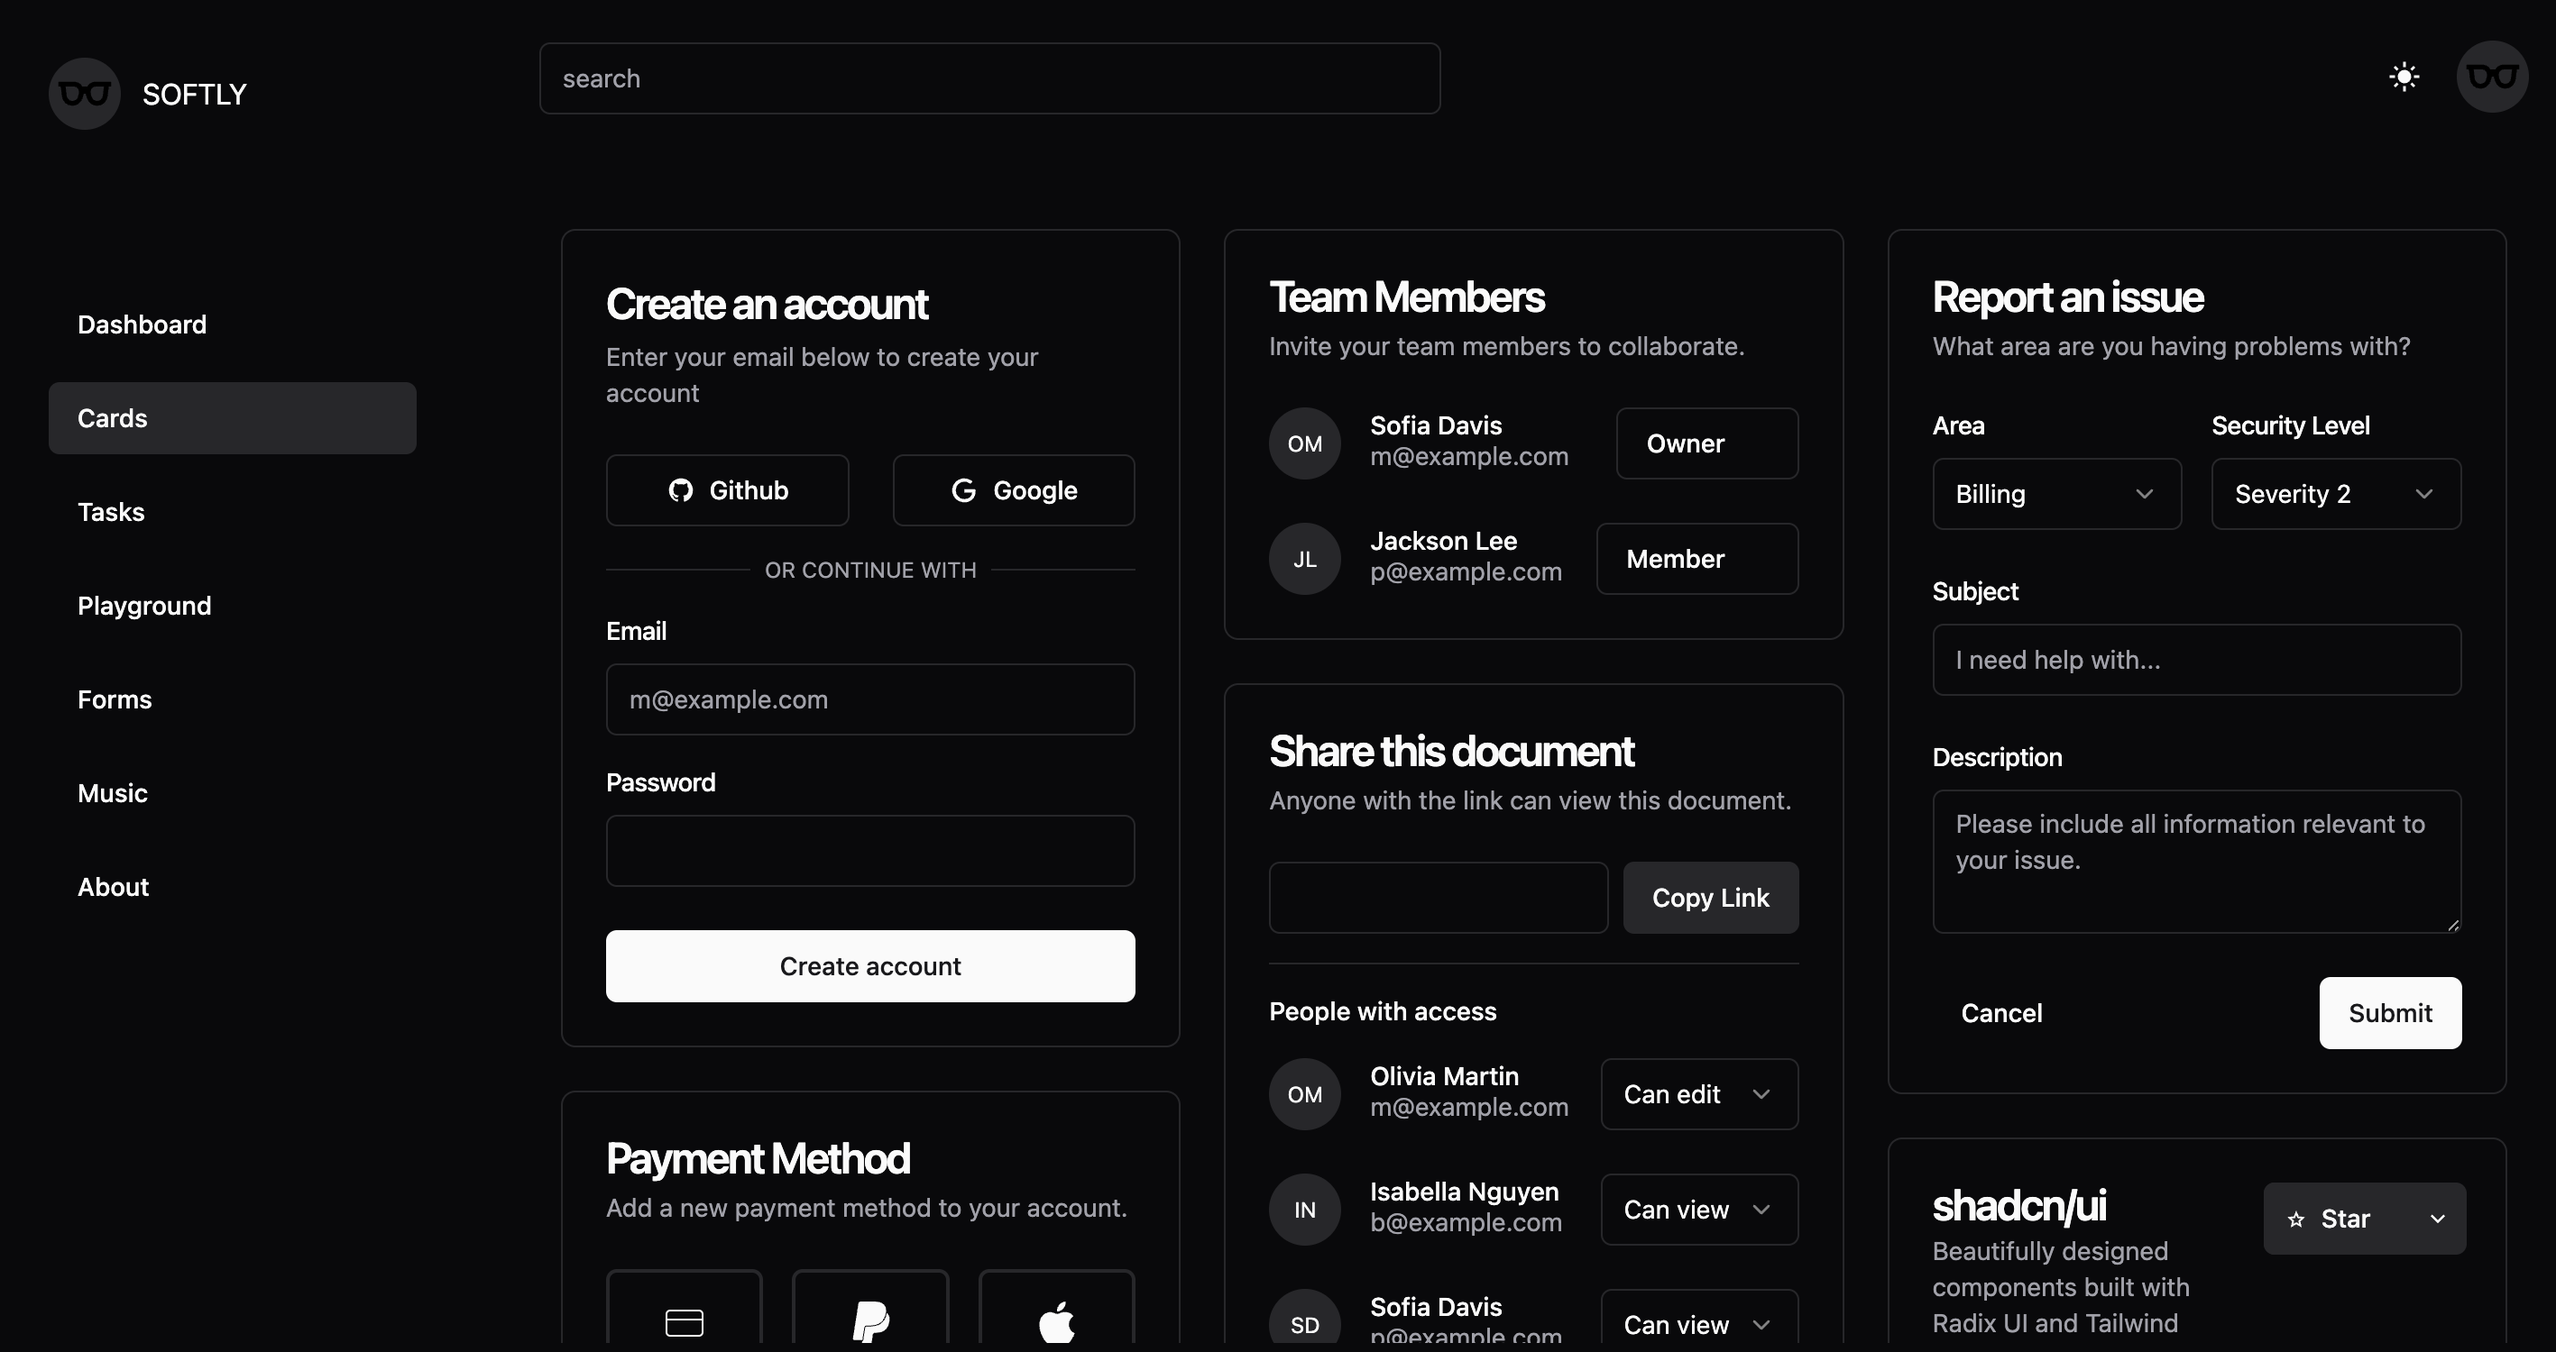
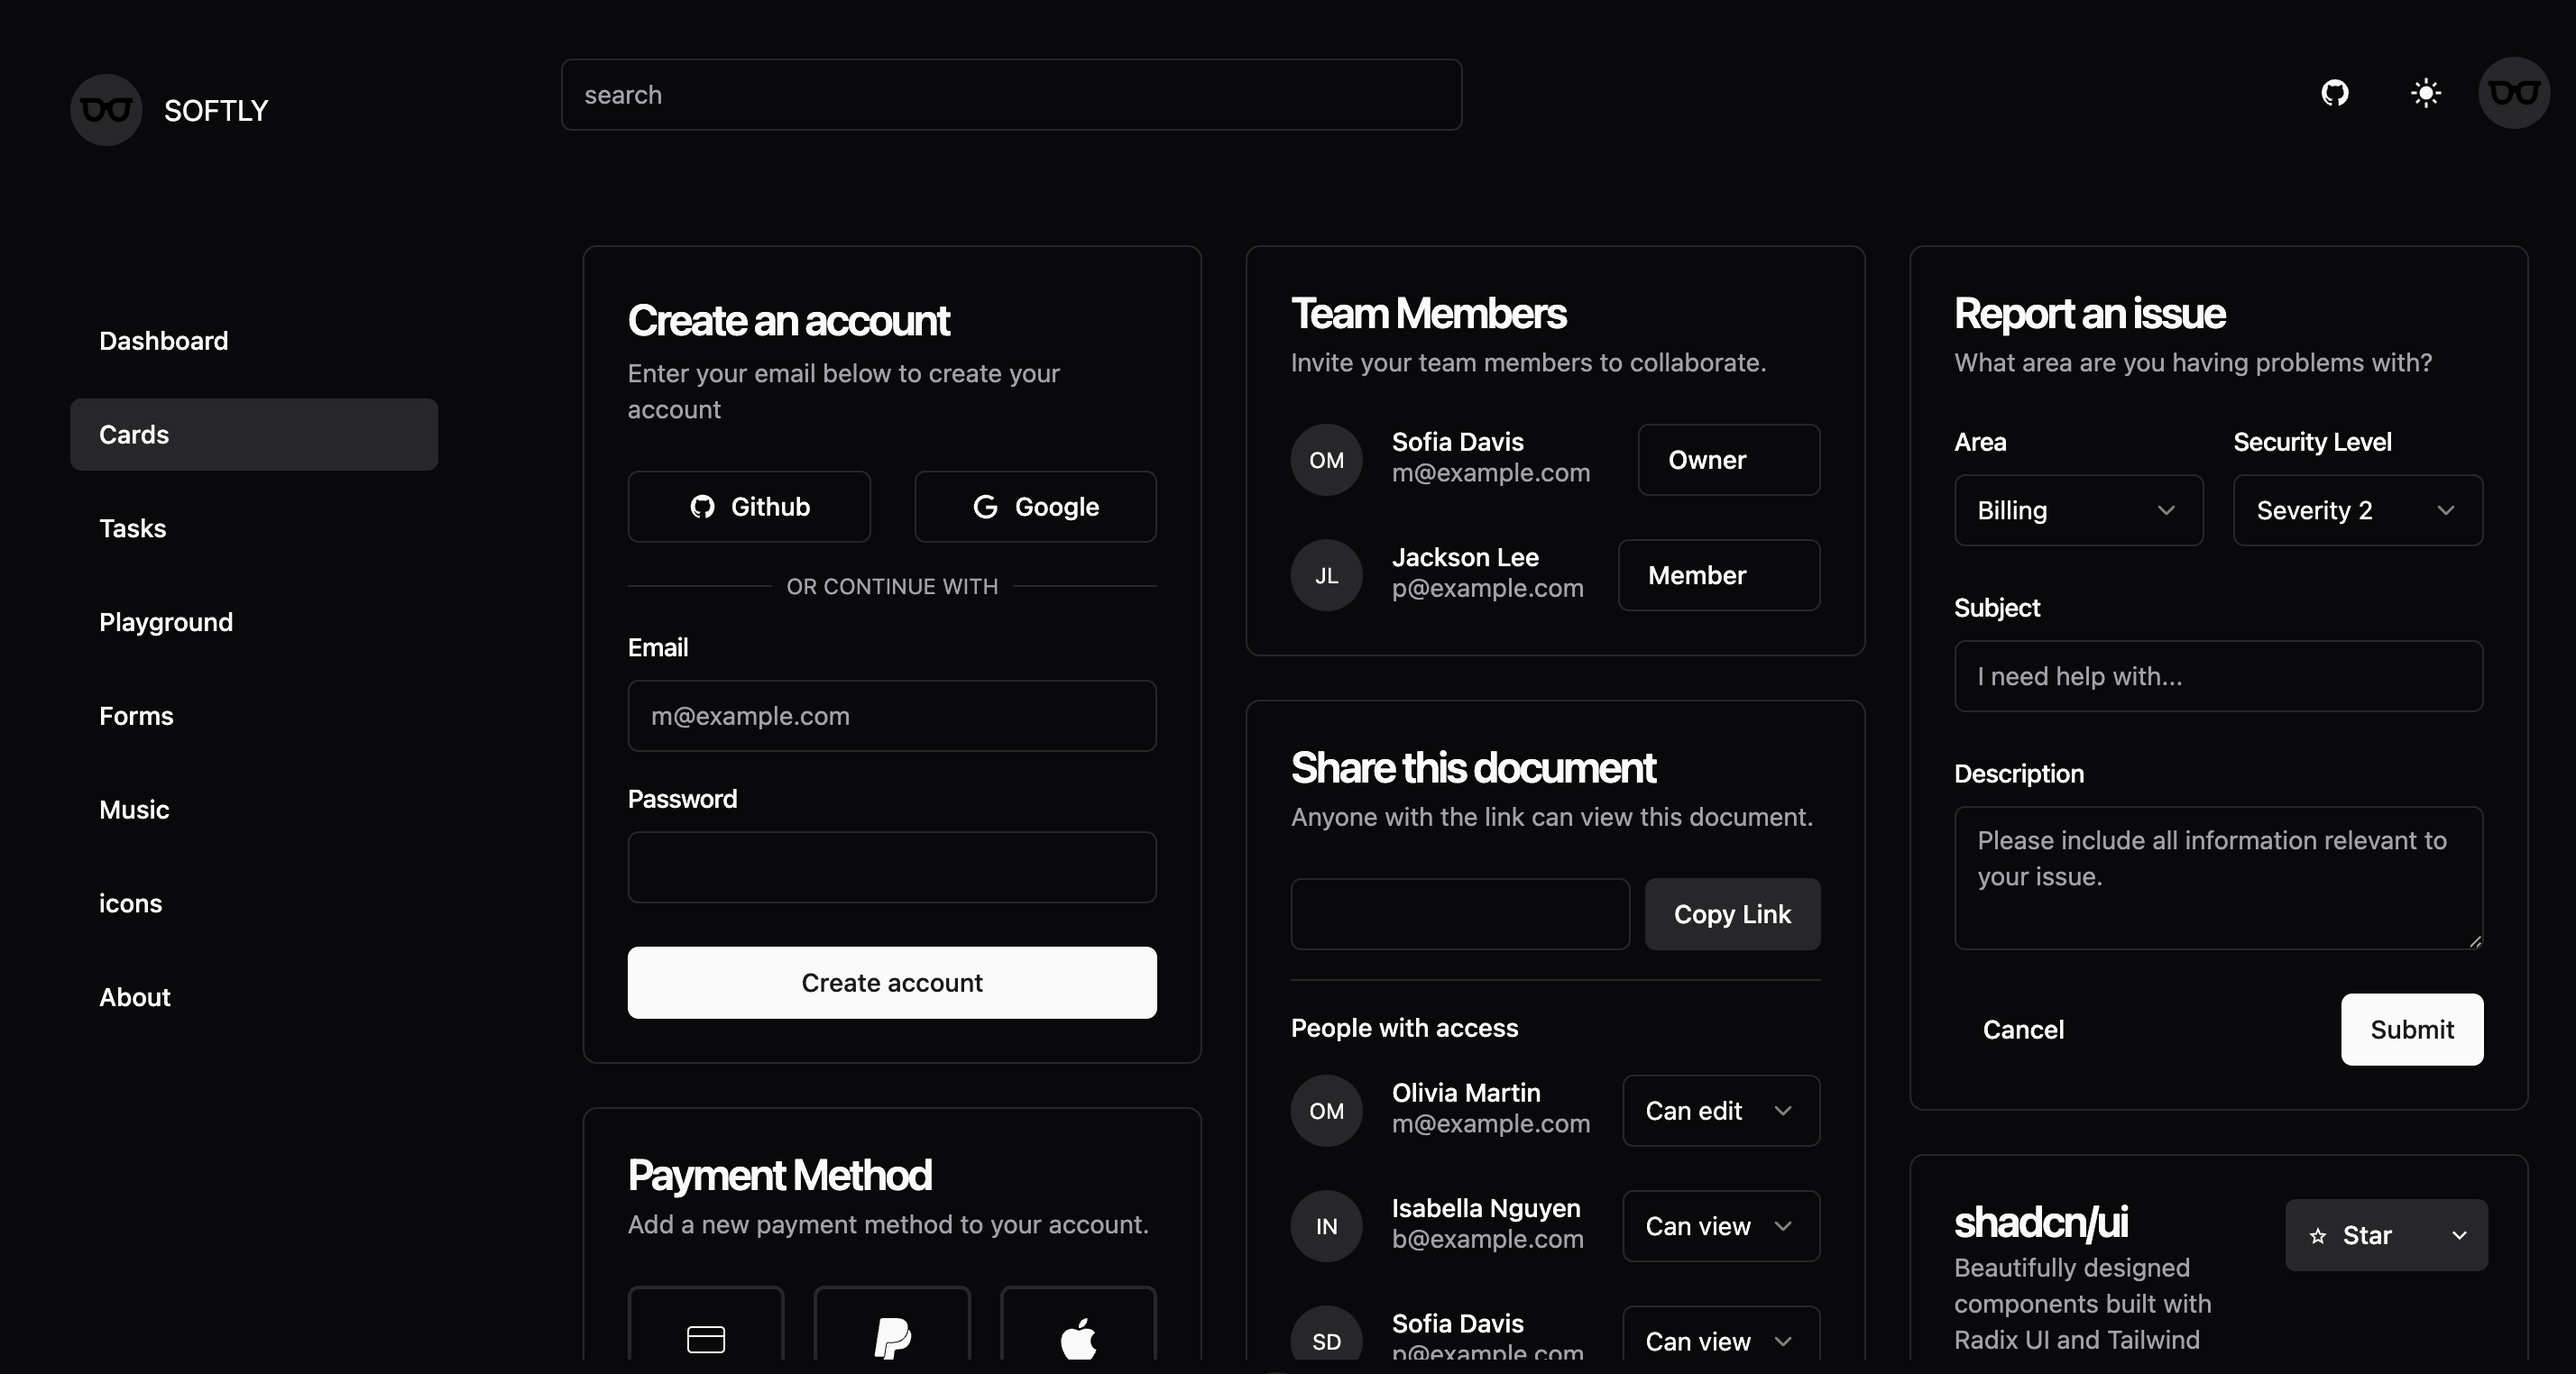
docs: update README

diff --git a/layouts/default/header.vue b/layouts/default/header.vue
@@ -13,6 +13,14 @@ function onClick() {
     </div>
 
     <div class="flex items-center space-x-2">
+      <Toggle aria-label="Toggle italic">
+        <NuxtLink
+          to="https://github.com/shellingfordly/softly"
+          target="__blank"
+        >
+          <span class="i-mdi-github" />
+        </NuxtLink>
+      </Toggle>
       <Toggle aria-label="Toggle italic" @click="onClick">
         <div>
           <span v-show="isDark" class="i-material-symbols-light-mode" />

diff --git a/nuxt.config.ts b/nuxt.config.ts
@@ -8,5 +8,4 @@ export default defineNuxtConfig({
     componentDir: "./components/ui",
   },
   css: ["/styles/tailwind.css"],
-
 });

diff --git a/README.md b/README.md
@@ -67,3 +67,11 @@ pnpm run preview
 - tasks
 
 ![tasks](./assets/tasks.png)
+
+- playground
+
+![playground](./assets/playground.png)
+
+- icons
+
+![icons](./assets/icons.png)

diff --git a/README.zh-CN.md b/README.zh-CN.md
@@ -67,3 +67,11 @@ pnpm run preview
 - tasks
 
 ![tasks](./assets/tasks.png)
+
+- playground
+
+![playground](./assets/playground.png)
+
+- icons
+
+![icons](./assets/icons.png)
